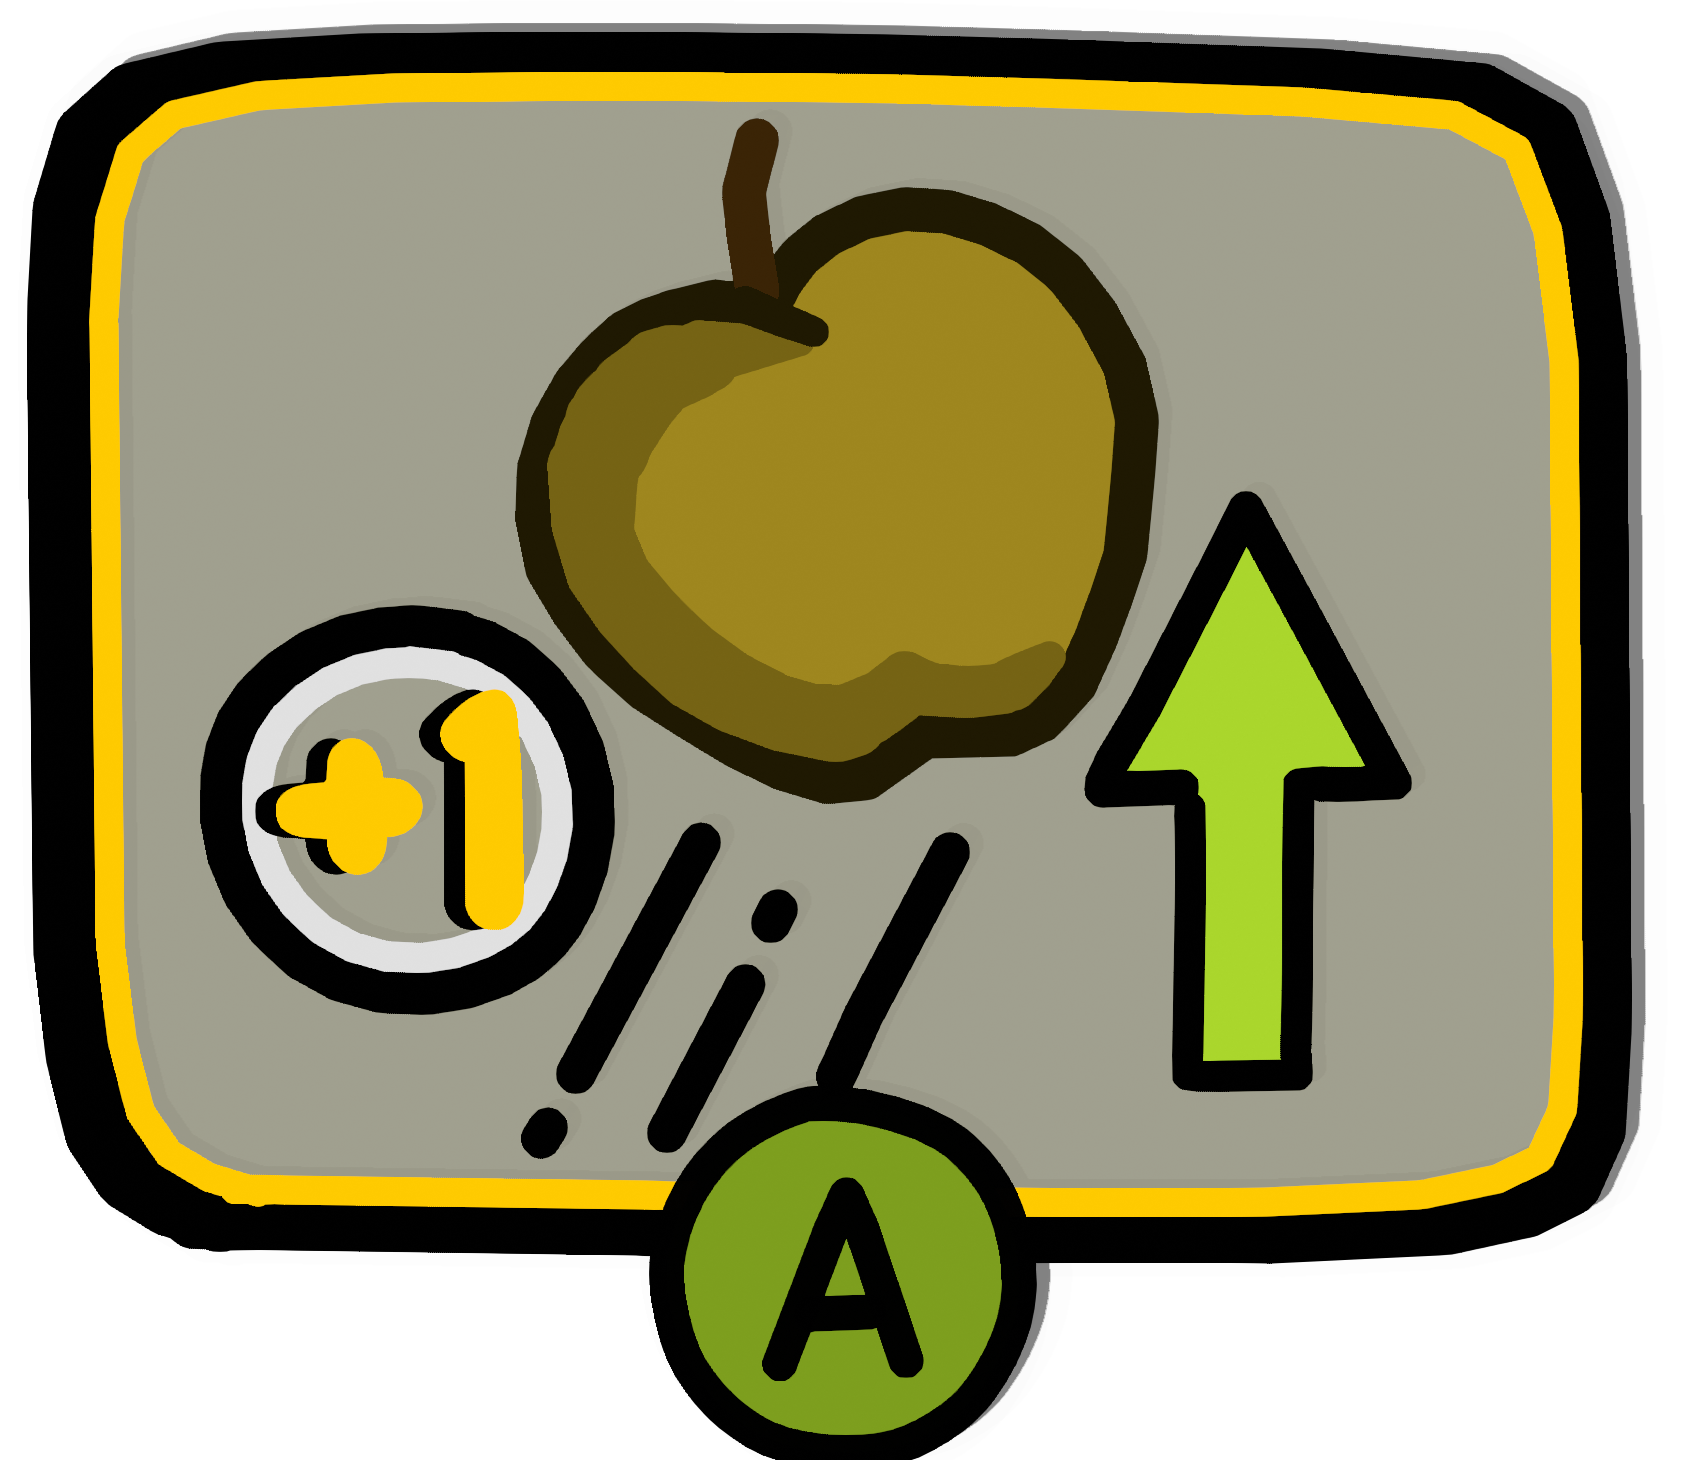
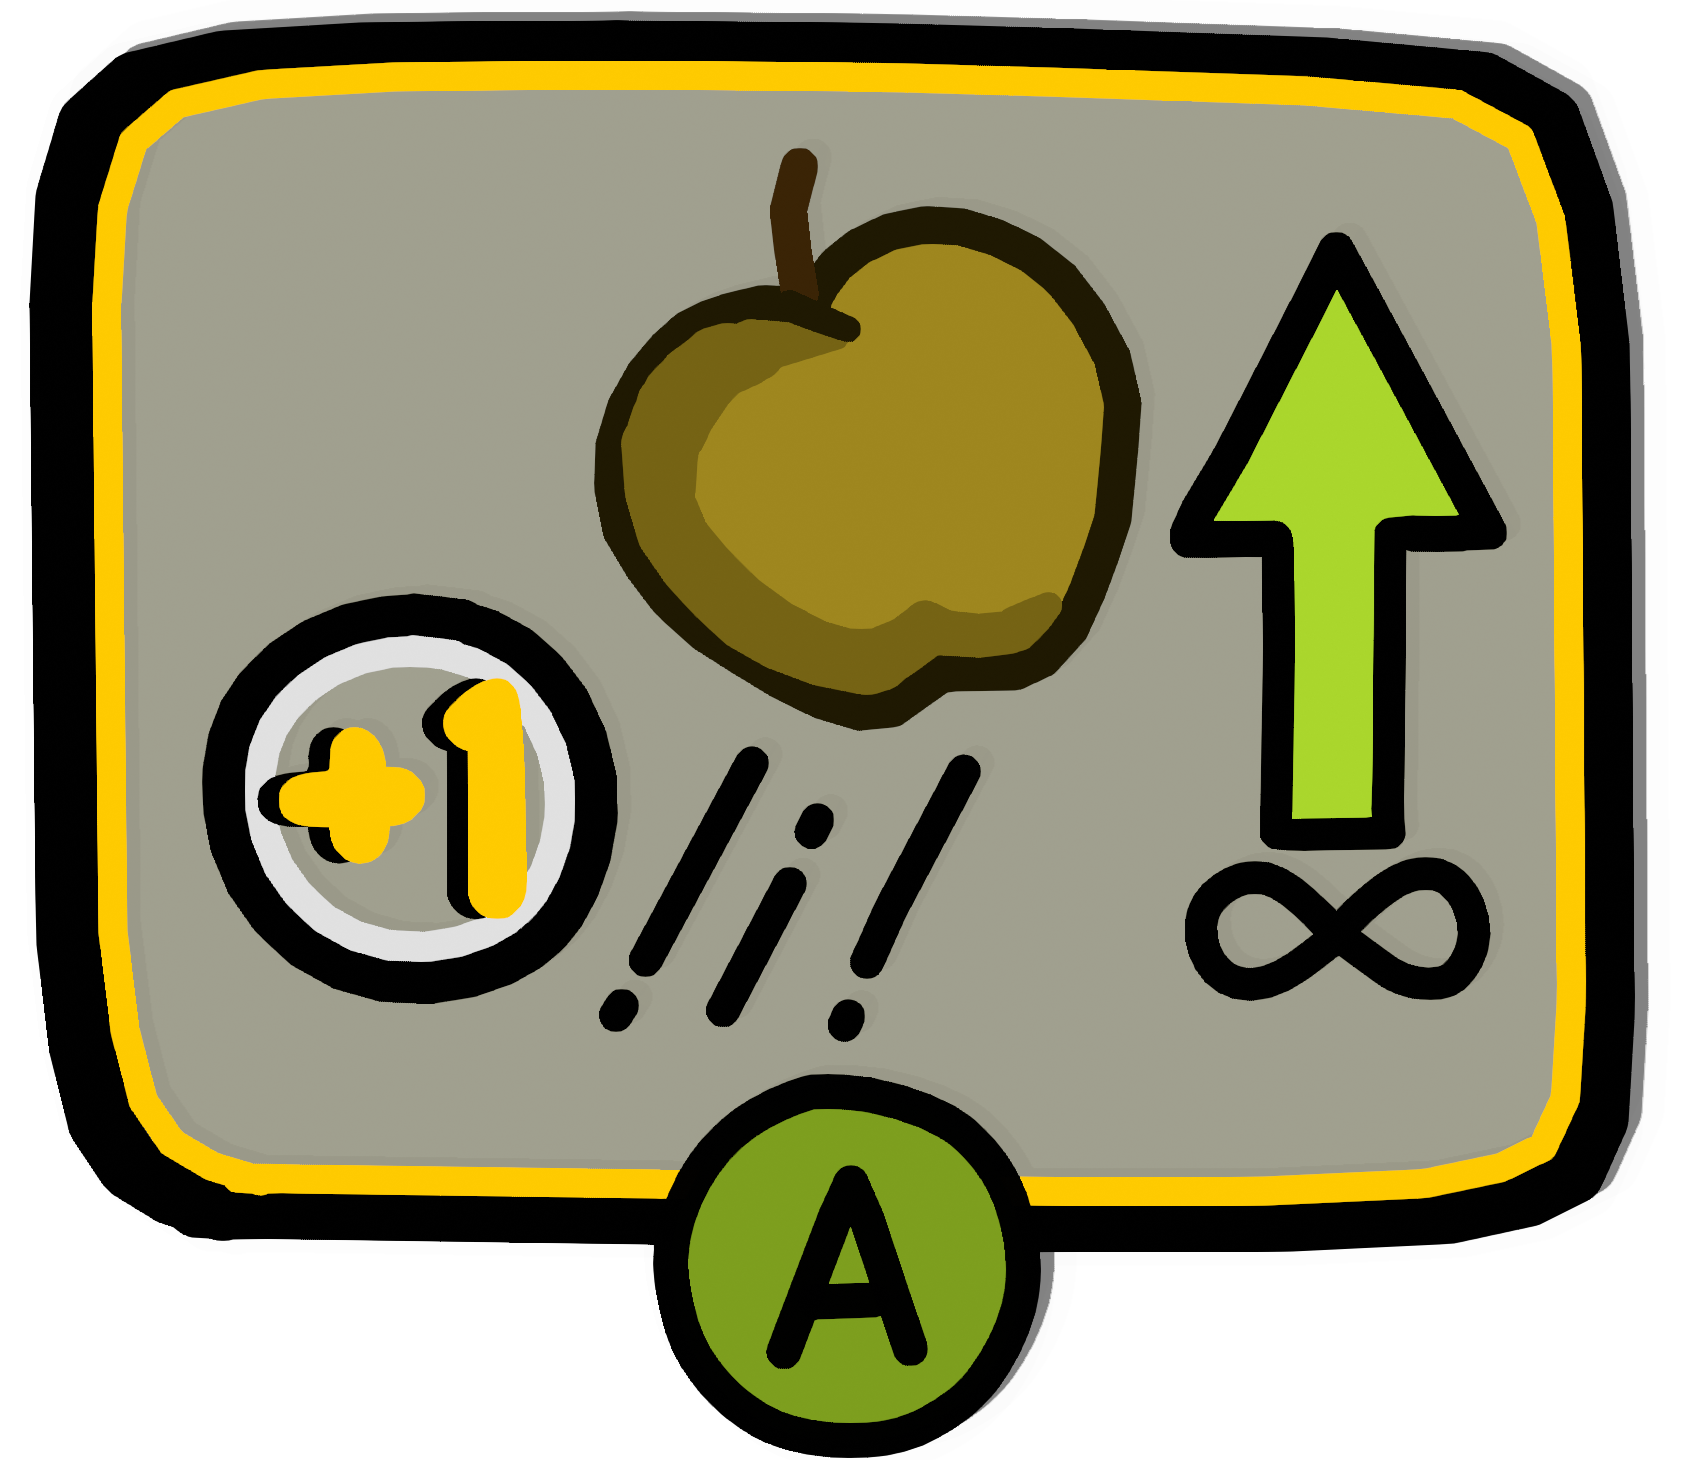
Progress system done (last bug but I don't know why)

Changed region(s): [[0.0308, 0.0, 0.9864, 1.0]]

diff --git a/ProgressSystem.cs b/ProgressSystem.cs
@@ -5,9 +5,11 @@ using Newtonsoft.Json.Linq;
 using System;
 using System.Collections.Generic;
 using System.Diagnostics;
+using System.Drawing;
 using System.Linq;
 using System.Text;
 using System.Threading.Tasks;
+using Color = Microsoft.Xna.Framework.Color;
 
 namespace TheGame
 {
@@ -22,7 +24,7 @@ namespace TheGame
         Texture2D picked_Reward1,picked_Reward2,picked_Reward3;
         Texture2D rewe;
         Texture2D apple_normal,apple_pick,dmg_normal,dmg_pick,leafs_normal,leafs_pick,m_normal,m_pick,mint_normal,mint_pick,nettle_pick,
-            nettle_normal,tea_normal,tea_pick;
+            nettle_normal,tea_normal,tea_pick,aspeed_normal,aspeed_pick,healt_normal,health_pick,point_normal,point_pick,speed_normal,speed_pick;
         public ProgressSystem(Player player)
         {
             this.player = player;
@@ -42,6 +44,14 @@ namespace TheGame
             nettle_normal = Globals.content.Load<Texture2D>("ProgressSystem/nettle_normal");
             tea_normal = Globals.content.Load<Texture2D>("ProgressSystem/tea_normal");
             tea_pick = Globals.content.Load<Texture2D>("ProgressSystem/tea_pick");
+            aspeed_normal = Globals.content.Load<Texture2D>("ProgressSystem/aspeed_normal");
+            aspeed_pick = Globals.content.Load<Texture2D>("ProgressSystem/aspeed_pick");
+            healt_normal = Globals.content.Load<Texture2D>("ProgressSystem/health_normal");
+            health_pick = Globals.content.Load<Texture2D>("ProgressSystem/health_pick");
+            point_normal = Globals.content.Load<Texture2D>("ProgressSystem/point_normal");
+            point_pick = Globals.content.Load<Texture2D>("ProgressSystem/point_pick");
+            speed_normal = Globals.content.Load<Texture2D>("ProgressSystem/speed_normal");
+            speed_pick = Globals.content.Load<Texture2D>("ProgressSystem/speed_pick");
         }
 
 
@@ -76,8 +86,8 @@ namespace TheGame
             {
                 if(Globals.attackspeedupgrade <3)
                 {
-                    Reward2 = dmg_normal;
-                    picked_Reward2 = dmg_pick;
+                    Reward2 = aspeed_normal;
+                    picked_Reward2 = aspeed_pick;
                 }
                 else
                 {
@@ -101,8 +111,8 @@ namespace TheGame
             {
                 if(Globals.speedupgrade<3)
                 {
-                    Reward2 = dmg_normal;
-                    picked_Reward2 = dmg_pick;
+                    Reward2 = speed_normal;
+                    picked_Reward2 = speed_pick;
                 }
                 else
                 {
@@ -112,8 +122,8 @@ namespace TheGame
             }
             if (rewards[1] == 4)
             {
-                Reward2 = dmg_normal;
-                picked_Reward2 = dmg_pick;
+                Reward2 = healt_normal;
+                picked_Reward2 = health_pick;
 
             }
 ///////////////////////////////////////////////////////////////////////////////////
@@ -159,8 +169,8 @@ namespace TheGame
             if (rewards[2] == 4)
             {
                 
-                Reward3= rewe;
-                picked_Reward3= rewe;
+                Reward3= point_normal;
+                picked_Reward3= point_pick;
             }
             if (rewards[2] == 5)
             {
